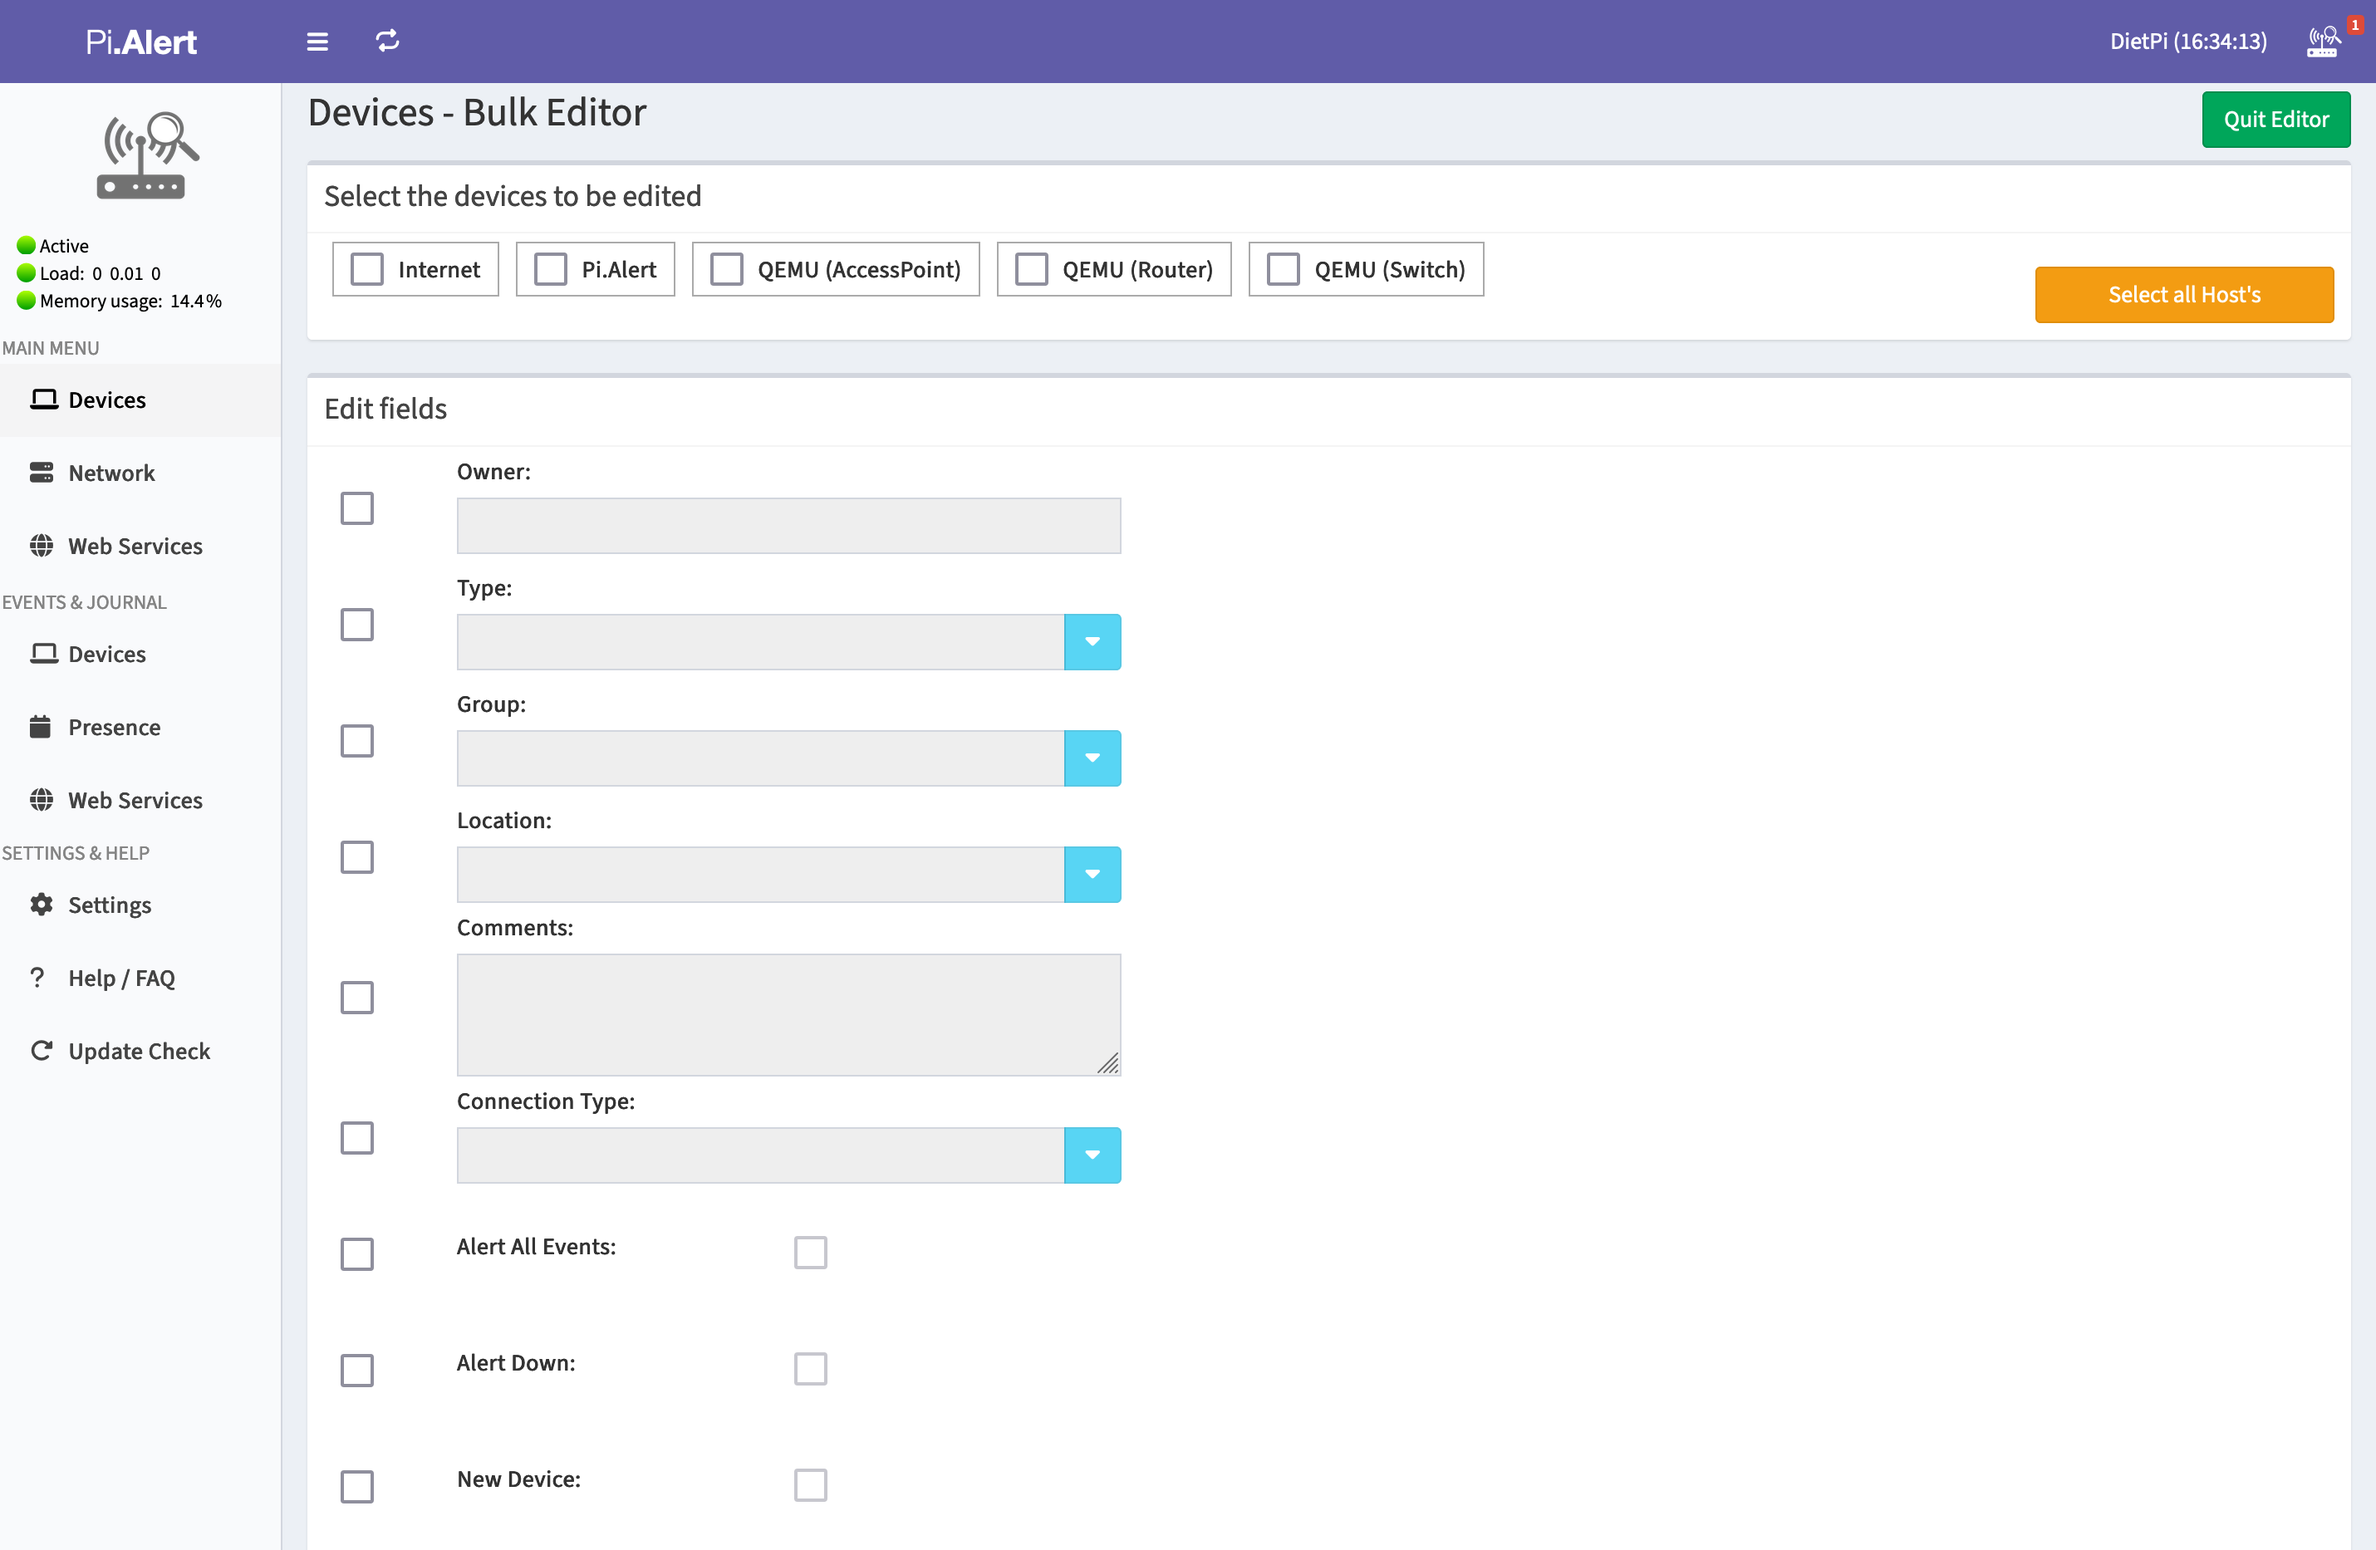
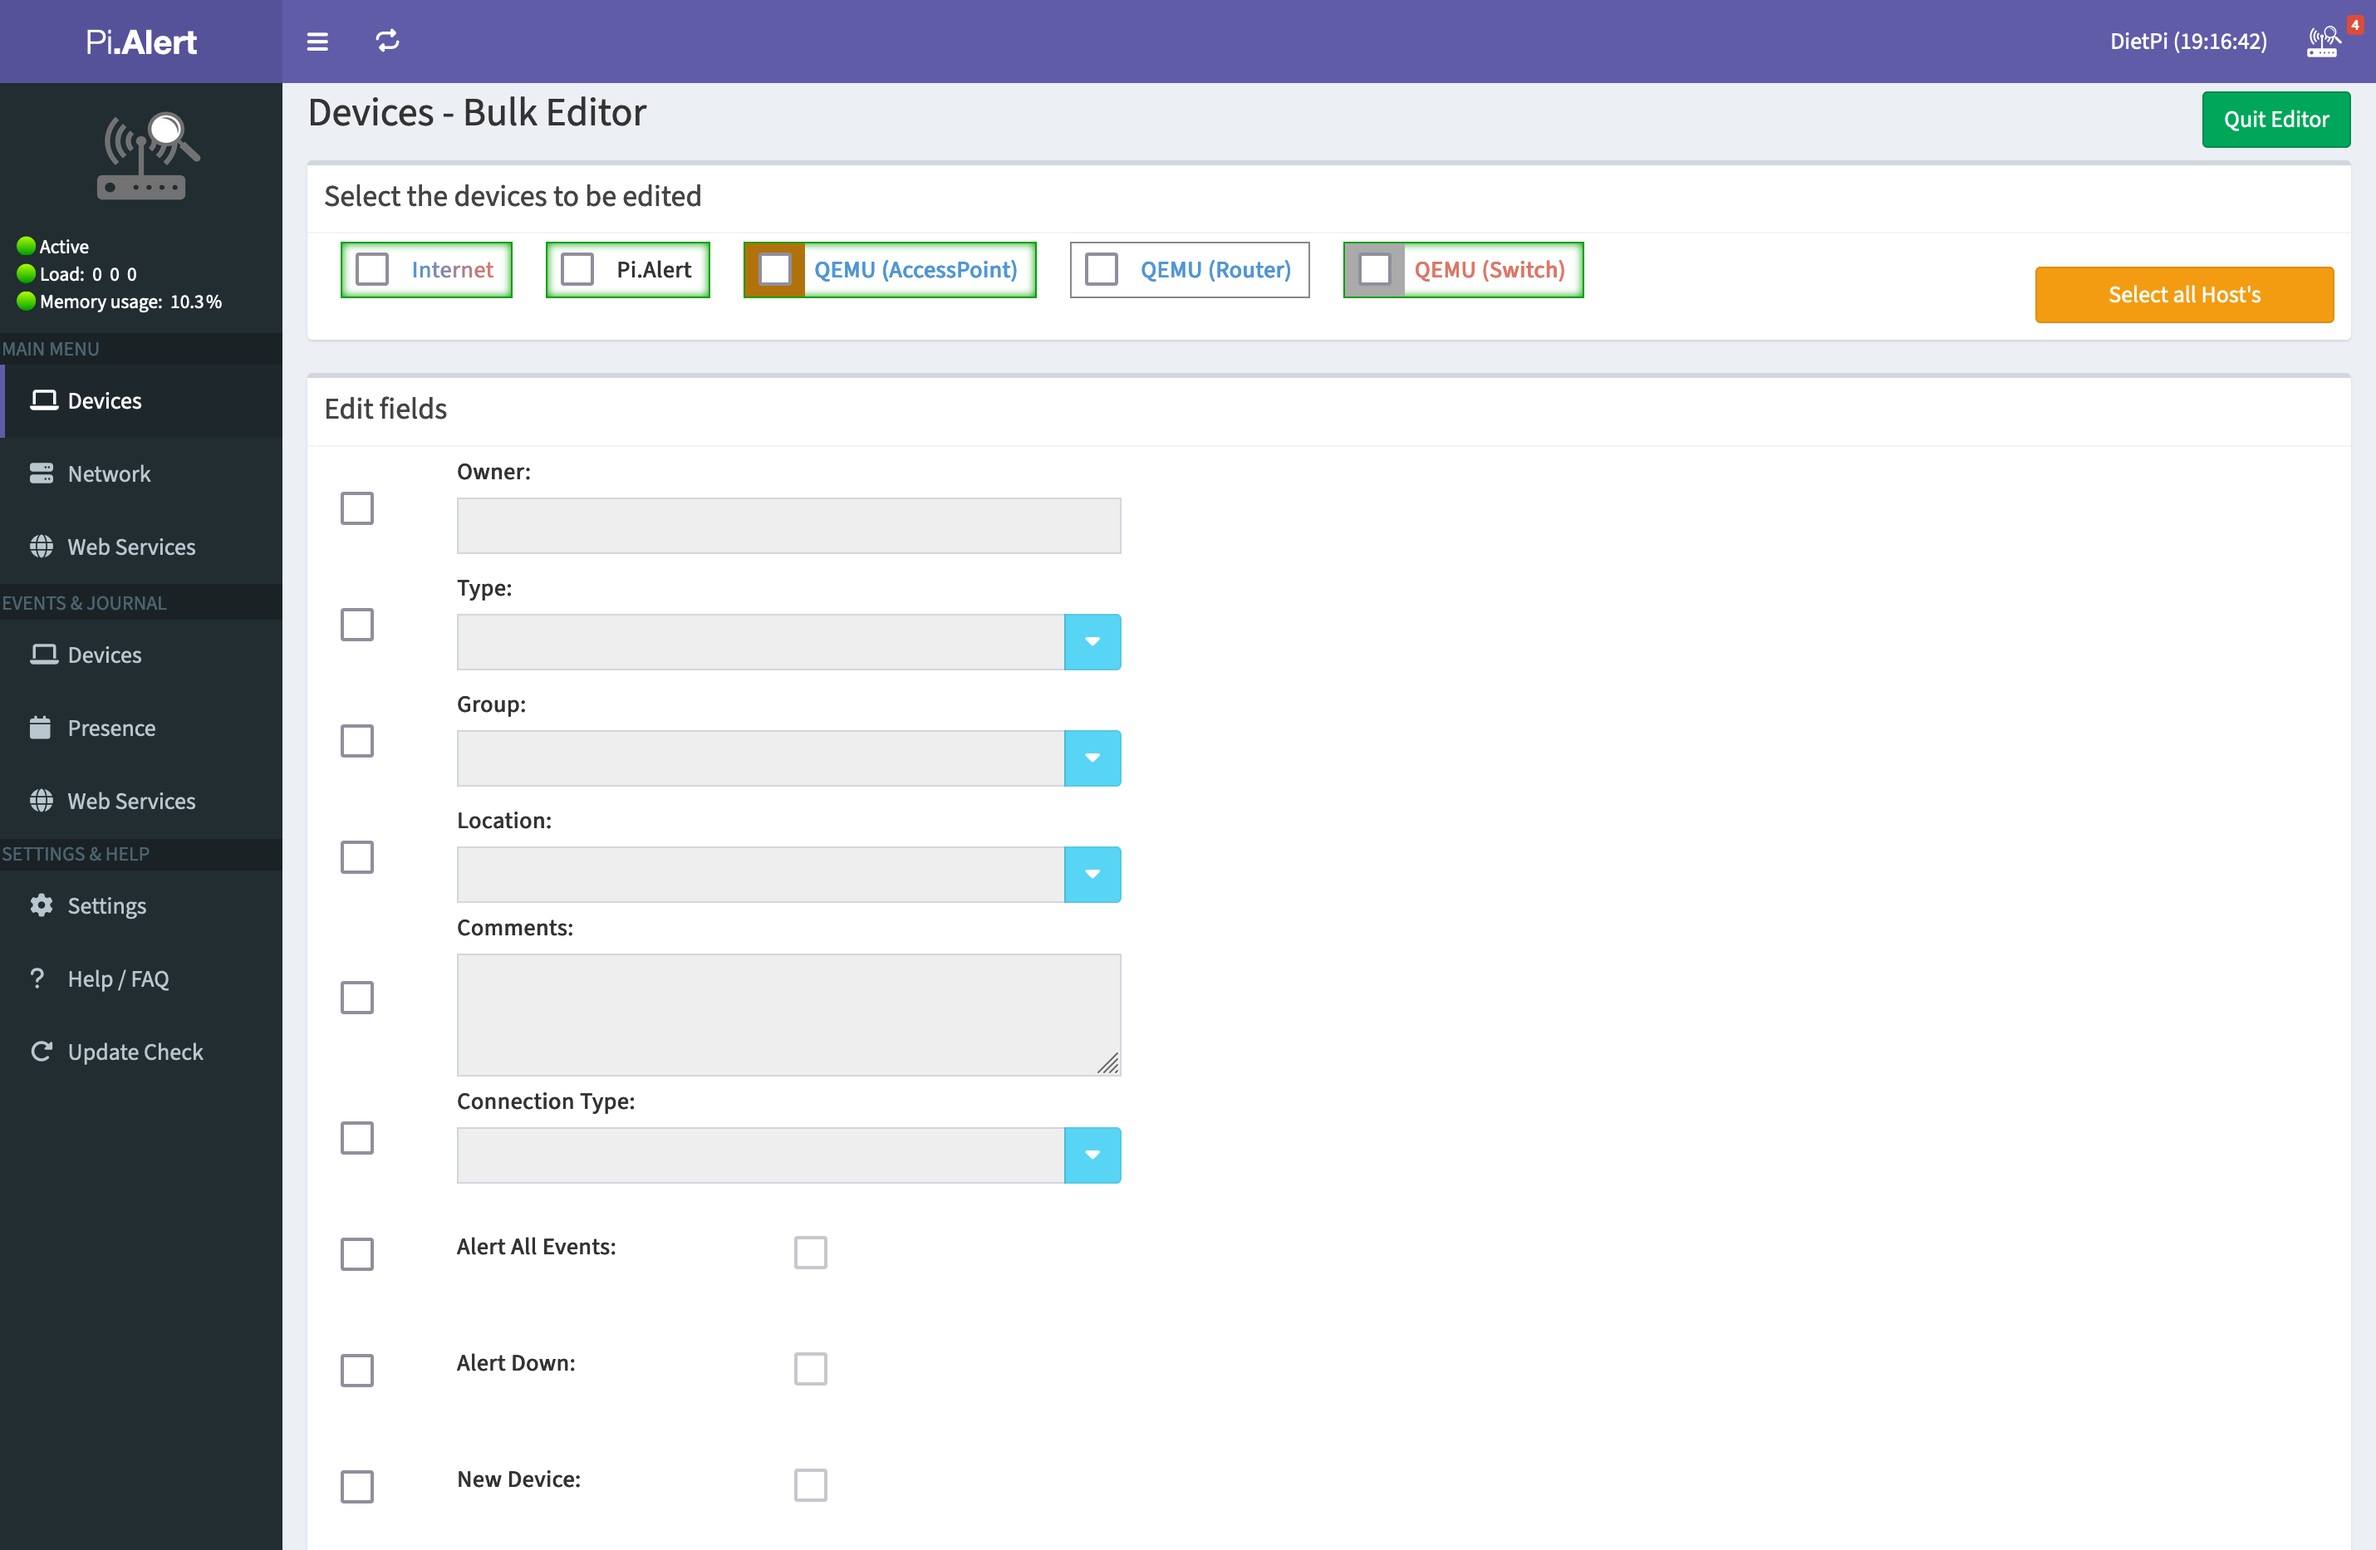
Docu - bulkeditor

Changed region(s): [[0.0, 0.0311, 0.6846, 1.0]]

diff --git a/docs/BULKEDITOR.md b/docs/BULKEDITOR.md
@@ -6,13 +6,18 @@ To access the bulk editor, you need to navigate to the devices.php page and clic
 
 A new page will now open showing all detected hosts in alphabetical order with a checkbox. The respective checkbox can be set via the host name as well as via the checkbox itself. Only selected hosts will apply the changes made.
 
-![Bulkeditor enable field][Enable_field]
+![Bulkeditor list][bulkeditor_list]
+
+The background color of the checkbox informs whether it is an archived or new device (gray or yellow). The color of the frame indicates the online or offline (green or gray) status. Whether notifications are made on all event, on down or on both is indicated by the font color (blue, red, gradient).
 
 To be able to edit a value, the input field must be activated via the respective checkbox (red circle) at the beginning of the line. If the checkbox is deactivated again, the input field is cleared.
 
-With the Save button, the changes are saved in the database without further questions. A summary of the changed devices with the changed values is displayed.
+![Bulkeditor enable field][Enable_field]
+
+With the Save button, the changes are saved in the database without further questions. A summary of the changed devices with the changed values is displayed. With the "DELETE DEVICES" button all selected devices are deleted from the database.
 
 [Back](https://github.com/leiweibau/Pi.Alert#front)
 
 [open_bulkeditor]:    ./img/bulkeditor_open.png           "Open bulkeditor"
+[bulkeditor_list]:    ./img/bulkeditor_list.png           "Bulkeditor list"
 [Enable_field]:       ./img/bulkeditor_enable_field.png   "Bulkeditor enable field"
